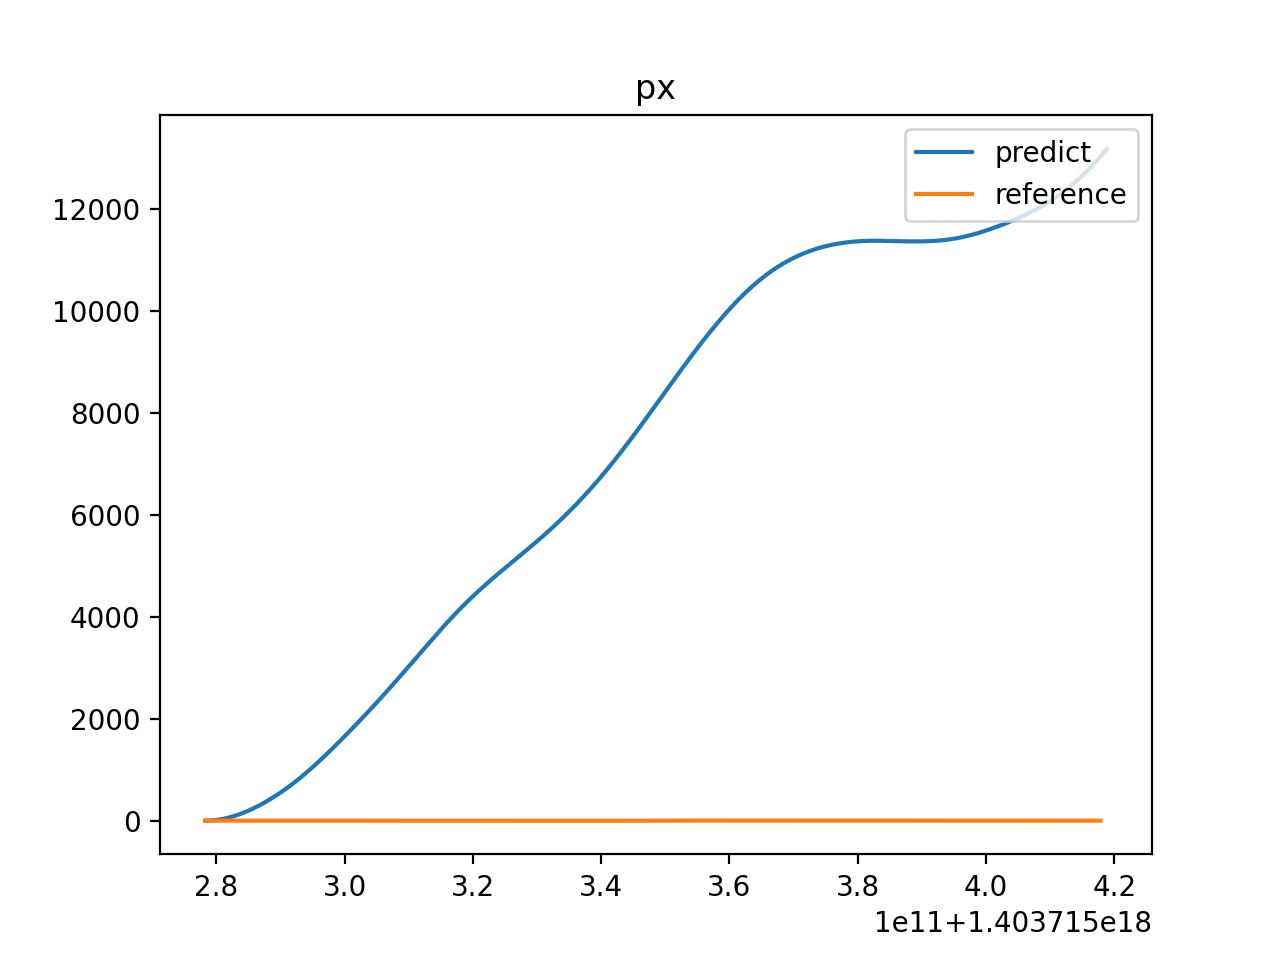
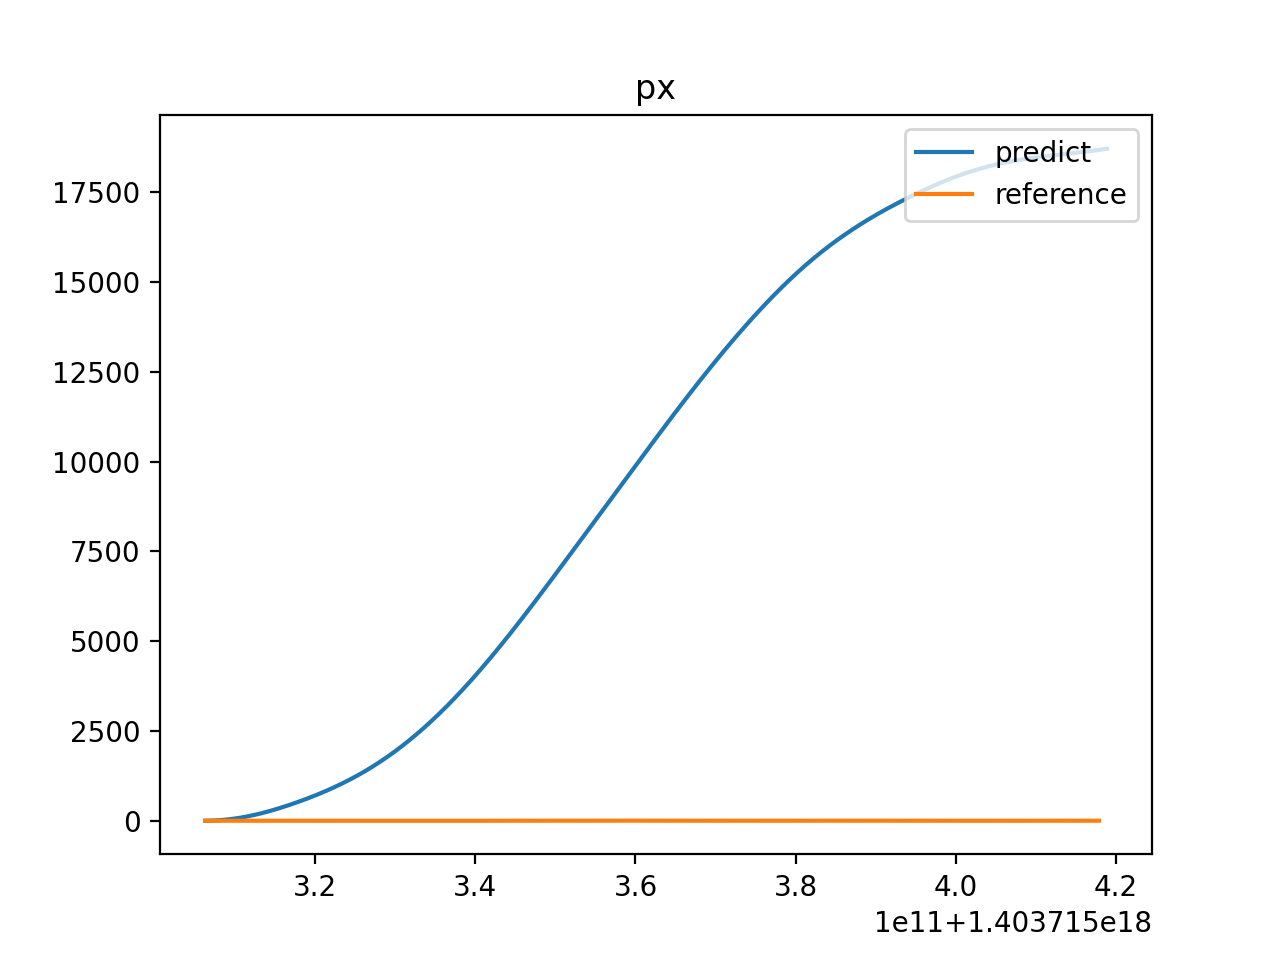
checkpoint: Exibindo corte de 28 segundos na parte em que o movimento parece estranho.

diff --git a/testes/preintegration/try_real_dataset.py b/testes/preintegration/try_real_dataset.py
@@ -30,6 +30,12 @@ Runs the experiment itself.
     timestamp_imu = read_csv("dataset-files/V1_01_easy/mav0/imu0/data.csv").to_numpy()[1000:, 0:1]
     timestamp_dados_de_saida = read_csv("dataset-files/V1_01_easy/mav0/state_groundtruth_estimate0/data.csv").to_numpy()[:, 0:1]
 
+    # Pulando 28 segundos
+    dados_de_entrada_imu = dados_de_entrada_imu[5600:]
+    dados_de_saida = dados_de_saida[5600:]
+    timestamp_imu = timestamp_imu[5600:]
+    timestamp_dados_de_saida = timestamp_dados_de_saida[5600:]
+
     output_tensor = model(torch.tensor(dados_de_entrada_imu, dtype=torch.float32).unsqueeze(dim=0))[0]
 
     quaternios_de_variacao = torch.nn.functional.normalize(output_tensor[:, 9:13])
